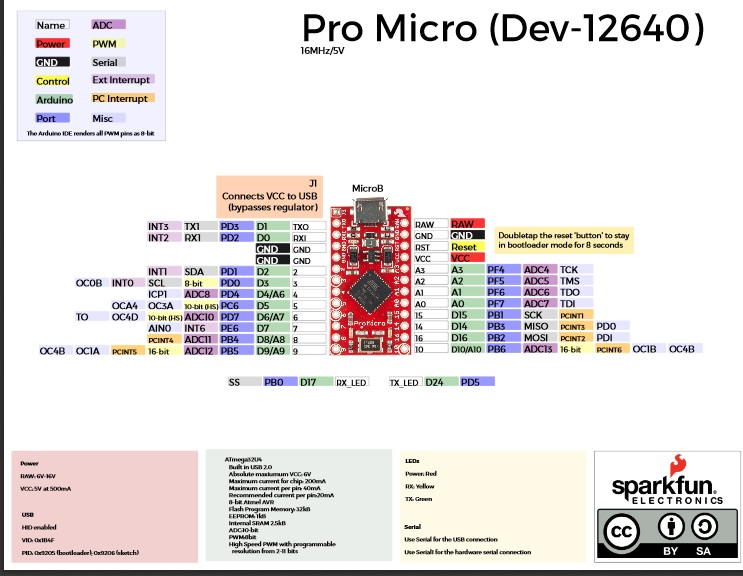
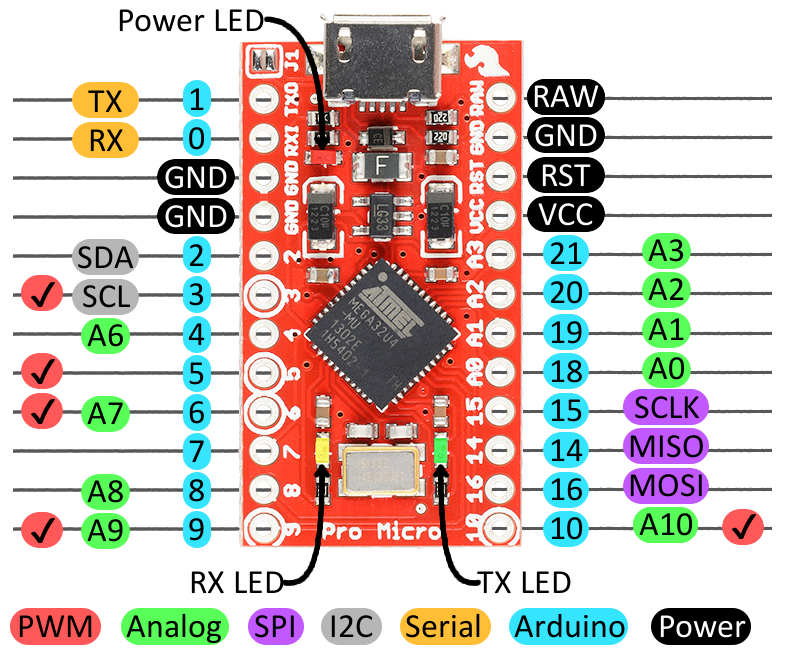
feat(docs): Update documentation to match new Pro Micro nodes

diff --git a/docs/docs/development/new-shield.md b/docs/docs/development/new-shield.md
@@ -117,7 +117,7 @@ endif
 
 ![Labelled Pro Micro pins](../assets/pro-micro/pro-micro-pins-labelled.jpg)
 
-ZMK uses the green color coded pin names to generate devicetree node references. For example, to refer to the node `D0` in the devicetree files, use `&pro_micro_d 0` or to refer to `A1`, use `&pro_micro_a 1`.
+ZMK uses the blue color coded pin names to generate devicetree node references. For example, to refer to the node `0` in the devicetree files, use `&pro_micro 0`.
 
 <Tabs
 defaultValue="unibody"
@@ -143,15 +143,15 @@ this might look something like:
         diode-direction = "col2row";
 
         col-gpios
-            = <&pro_micro_d 15 GPIO_ACTIVE_HIGH>
-            , <&pro_micro_d 14 GPIO_ACTIVE_HIGH>
-            , <&pro_micro_d 16 GPIO_ACTIVE_HIGH>
+            = <&pro_micro 15 GPIO_ACTIVE_HIGH>
+            , <&pro_micro 14 GPIO_ACTIVE_HIGH>
+            , <&pro_micro 16 GPIO_ACTIVE_HIGH>
             ;
 
 		row-gpios
-			= <&pro_micro_a 1 (GPIO_ACTIVE_HIGH | GPIO_PULL_DOWN)>
-			, <&pro_micro_a 2 (GPIO_ACTIVE_HIGH | GPIO_PULL_DOWN)>
-            , <&pro_micro_a 3 (GPIO_ACTIVE_HIGH | GPIO_PULL_DOWN)>
+			= <&pro_micro 19 (GPIO_ACTIVE_HIGH | GPIO_PULL_DOWN)>
+			, <&pro_micro 20 (GPIO_ACTIVE_HIGH | GPIO_PULL_DOWN)>
+            , <&pro_micro 21 (GPIO_ACTIVE_HIGH | GPIO_PULL_DOWN)>
 			;
 	};
 };
@@ -200,11 +200,11 @@ RC(3,0) RC(3,1) RC(3,2) RC(3,3) RC(3,4) RC(3,5) RC(4,2) RC(4,9) RC(3,6) RC(3,7) 
 
 		diode-direction = "col2row";
 		row-gpios
-			= <&pro_micro_d 6 (GPIO_ACTIVE_HIGH | GPIO_PULL_DOWN)> // Row A from the schematic file
-			, <&pro_micro_d 7 (GPIO_ACTIVE_HIGH | GPIO_PULL_DOWN)> // Row B from the schematic file
-			, <&pro_micro_d 8 (GPIO_ACTIVE_HIGH | GPIO_PULL_DOWN)> // Row C from the schematic file
-			, <&pro_micro_d 0 (GPIO_ACTIVE_HIGH | GPIO_PULL_DOWN)> // Row D from the schematic file
-			, <&pro_micro_d 4 (GPIO_ACTIVE_HIGH | GPIO_PULL_DOWN)> // Row E from the schematic file
+			= <&pro_micro 6 (GPIO_ACTIVE_HIGH | GPIO_PULL_DOWN)> // Row A from the schematic file
+			, <&pro_micro 7 (GPIO_ACTIVE_HIGH | GPIO_PULL_DOWN)> // Row B from the schematic file
+			, <&pro_micro 8 (GPIO_ACTIVE_HIGH | GPIO_PULL_DOWN)> // Row C from the schematic file
+			, <&pro_micro 0 (GPIO_ACTIVE_HIGH | GPIO_PULL_DOWN)> // Row D from the schematic file
+			, <&pro_micro 4 (GPIO_ACTIVE_HIGH | GPIO_PULL_DOWN)> // Row E from the schematic file
 			;
 
 	};
@@ -228,12 +228,12 @@ This is exemplified with the iris .overlay files.
 
 &kscan0 {
 	col-gpios
-		= <&pro_micro_a 1 GPIO_ACTIVE_HIGH> // col1 in the schematic
-		, <&pro_micro_a 0 GPIO_ACTIVE_HIGH> // col2 in the schematic
-		, <&pro_micro_d 15 GPIO_ACTIVE_HIGH> // col3 in the schematic
-		, <&pro_micro_d 14 GPIO_ACTIVE_HIGH> // col4 in the schematic
-		, <&pro_micro_d 16 GPIO_ACTIVE_HIGH> // col5 in the schematic
-		, <&pro_micro_d 10 GPIO_ACTIVE_HIGH> // col6 in the schematic
+		= <&pro_micro 19 GPIO_ACTIVE_HIGH> // col1 in the schematic
+		, <&pro_micro 18 GPIO_ACTIVE_HIGH> // col2 in the schematic
+		, <&pro_micro 15 GPIO_ACTIVE_HIGH> // col3 in the schematic
+		, <&pro_micro 14 GPIO_ACTIVE_HIGH> // col4 in the schematic
+		, <&pro_micro 16 GPIO_ACTIVE_HIGH> // col5 in the schematic
+		, <&pro_micro 10 GPIO_ACTIVE_HIGH> // col6 in the schematic
 		;
 };
 ```
@@ -249,12 +249,12 @@ This is exemplified with the iris .overlay files.
 
 &kscan0 {
 	col-gpios
-		= <&pro_micro_d 10 GPIO_ACTIVE_HIGH> // col6 in the schematic
-		, <&pro_micro_d 16 GPIO_ACTIVE_HIGH> // col5 in the schematic
-		, <&pro_micro_d 14 GPIO_ACTIVE_HIGH> // col4 in the schematic
-		, <&pro_micro_d 15 GPIO_ACTIVE_HIGH> // col3 in the schematic
-		, <&pro_micro_a 0 GPIO_ACTIVE_HIGH>  // col2 in the schematic
-		, <&pro_micro_a 1 GPIO_ACTIVE_HIGH>  // col1 in the schematic
+		= <&pro_micro 10 GPIO_ACTIVE_HIGH> // col6 in the schematic
+		, <&pro_micro 16 GPIO_ACTIVE_HIGH> // col5 in the schematic
+		, <&pro_micro 14 GPIO_ACTIVE_HIGH> // col4 in the schematic
+		, <&pro_micro 15 GPIO_ACTIVE_HIGH> // col3 in the schematic
+		, <&pro_micro 18 GPIO_ACTIVE_HIGH>  // col2 in the schematic
+		, <&pro_micro 19 GPIO_ACTIVE_HIGH>  // col1 in the schematic
 		;
 };
 

diff --git a/docs/docs/development/boards-shields-keymaps.md b/docs/docs/development/boards-shields-keymaps.md
@@ -47,6 +47,6 @@ in the `app/boards/shields/${board_name}` directory, e.g. `app/boards/shields/cl
 - A `Kconfig.shield` that defines the toplevel Kconfig value for the shield, which uses a supplied utility to function to default the value based on the shield list, e.g. `def_bool $(shields_list_contains,clueboard_california)`.
 - A `Kconfig.defconfig` file to set default values for things like `ZMK_KEYBOARD_NAME`
 - A `${shield_name}.overlay` file, which is a devicetree overlay file, that includes:
-  - A [chosen](https://docs.zephyrproject.org/2.5.0/guides/dts/intro.html#aliases-and-chosen-nodes) node named `zmk,kscan` which references the configured KSCAN driver (usually a GPIO matrix). For these keyboards, to be compatible with any Pro Micro compatible boards, the KSCAN configuration should reference the [nexus node](https://docs.zephyrproject.org/2.5.0/guides/porting/shields.html#gpio-nexus-nodes) that ZMK has standardized on. In particular, the `&pro_micro_a` and `&pro_micro_d` aliases can be used to reference the standard `A#` and `D#` pins in shields.
+  - A [chosen](https://docs.zephyrproject.org/2.5.0/guides/dts/intro.html#aliases-and-chosen-nodes) node named `zmk,kscan` which references the configured KSCAN driver (usually a GPIO matrix). For these keyboards, to be compatible with any Pro Micro compatible boards, the KSCAN configuration should reference the [nexus node](https://docs.zephyrproject.org/2.5.0/guides/porting/shields.html#gpio-nexus-nodes) that ZMK has standardized on. In particular, the `&pro_micro` aliases can be used to reference the standard digital pins of a Pro Micro for shields.
   - (Optional) A [chosen](https://docs.zephyrproject.org/2.5.0/guides/dts/intro.html#aliases-and-chosen-nodes) node named `zmk,matrix_transform` that defines the mapping from KSCAN row/column values to the logical key position for the keyboard.
 - A `keymap/keymap.overlay` file that includes the default keymap for that keyboard. Users will be able to override this keymap in their user configs.
